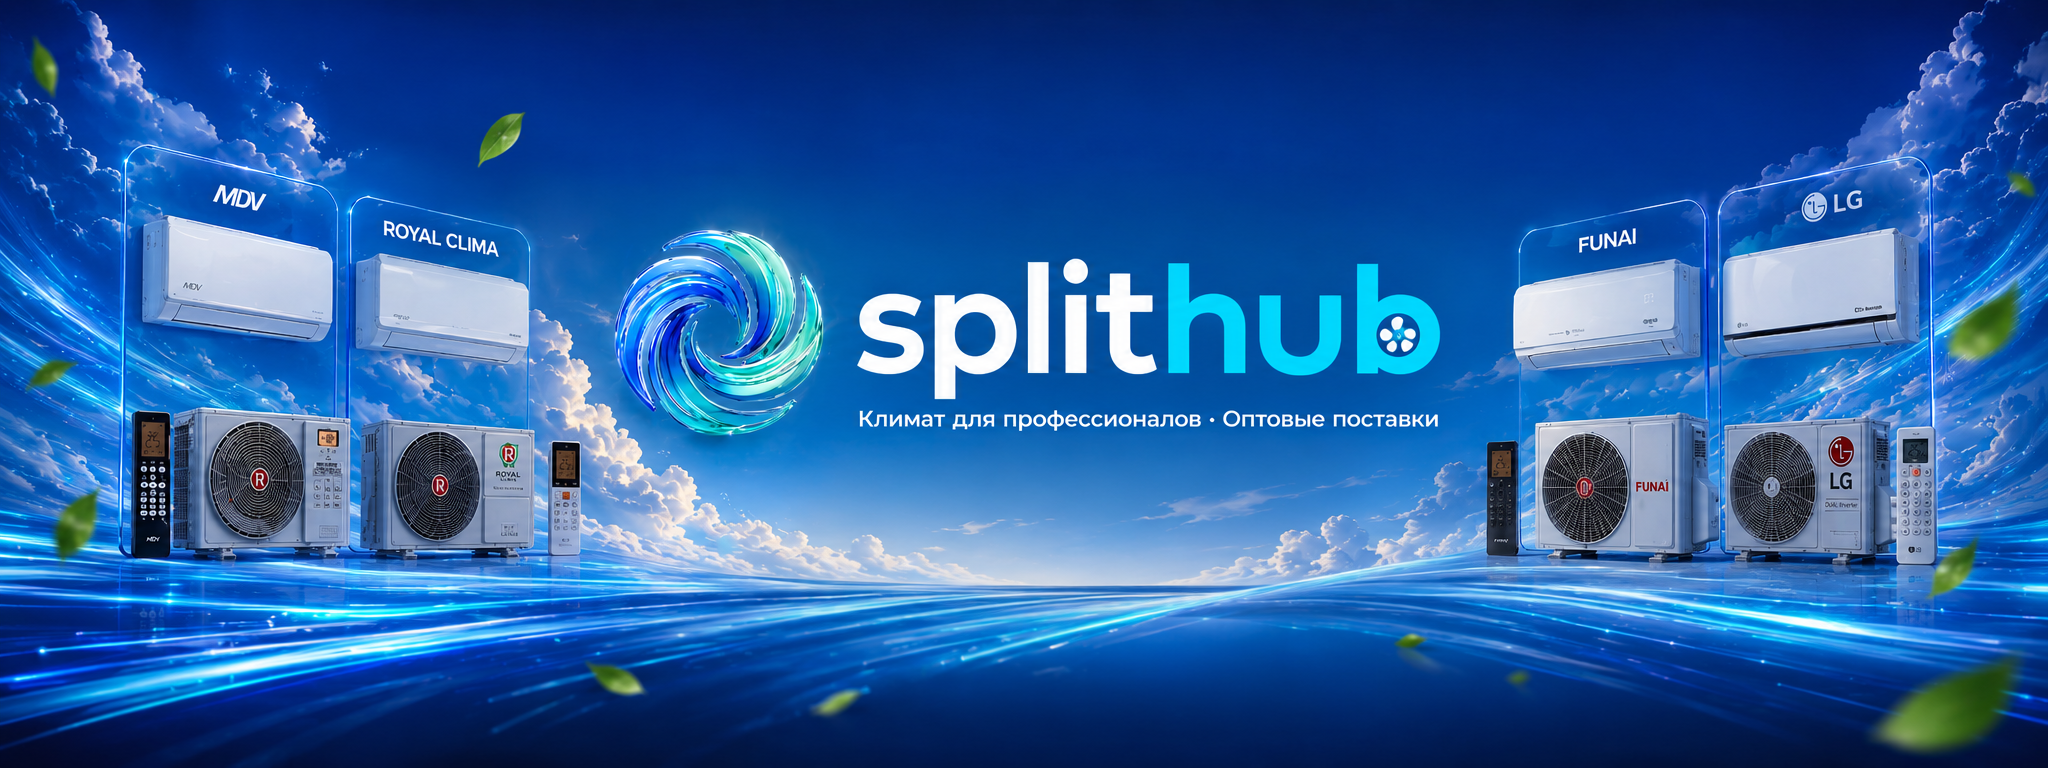
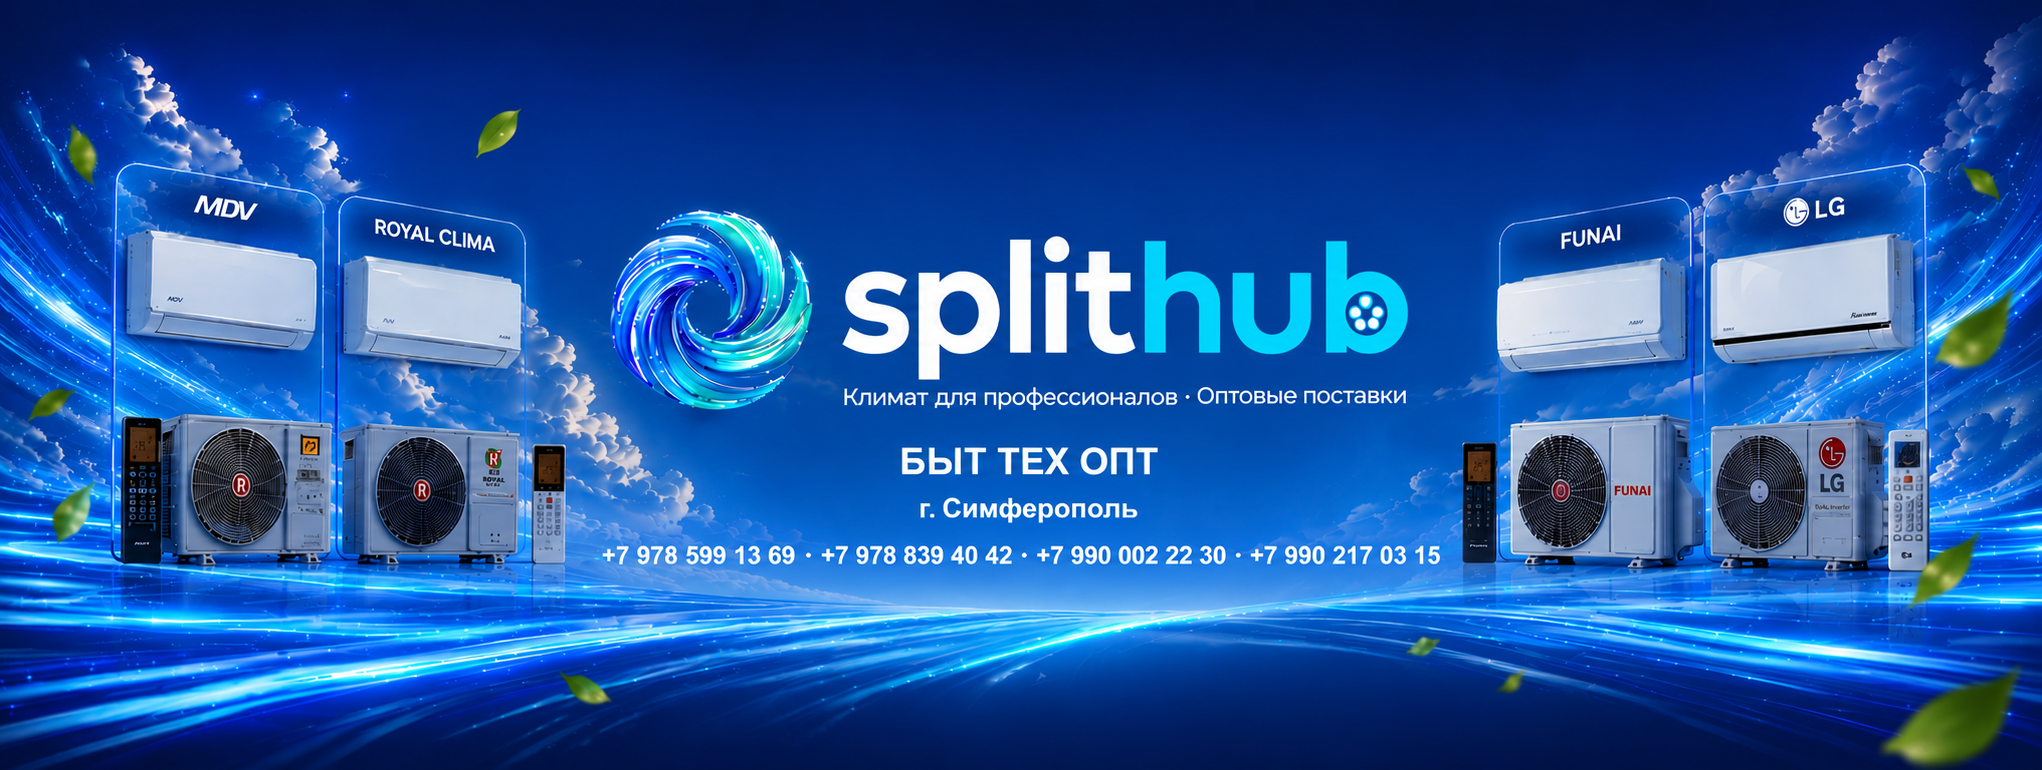
feat: баннер banner7 с вшитыми контактами, шапка без текстовых строк
- banner.png заменён на banner7 (контакты внутри картинки)
- banner_aspect 3.6 — компактная полоса 221pt
- убраны строки названия и телефонов: баннер → заголовки → товары

diff --git a/transform.py b/transform.py
@@ -362,7 +362,6 @@ def apply_pricing(df, group_markups, homeline_prices, default_markup):
 def build_pricelist(df, wb, config, group_order, group_after=None):
     ws = wb.active
     ws.title = 'Прайс клиента'
-    company = config['company']
 
     for letter, w in COL_WIDTHS.items():
         ws.column_dimensions[letter].width = w
@@ -370,32 +369,12 @@ def build_pricelist(df, wb, config, group_order, group_after=None):
     dark_fill = PatternFill('solid', start_color=COLORS['header_bg'])
 
     # ─── Баннер (строка 1, если файл есть) ───
+    # Контакты (название, город, телефоны) вшиты в сам баннер,
+    # поэтому отдельных текстовых строк в шапке нет.
     off = _add_banner(ws, config, dark_fill)
 
-    # ─── Название компании ───
-    ws.merge_cells(start_row=1 + off, start_column=1, end_row=1 + off, end_column=6)
-    c = ws.cell(1 + off, 1)
-    c.value = company['name']
-    c.font = Font(bold=True, size=22, name='Arial', color=COLORS['header_font'])
-    c.fill = dark_fill
-    c.alignment = Alignment(horizontal='center', vertical='center')
-    ws.row_dimensions[1 + off].height = 38.1
-    for col in range(2, 7):
-        ws.cell(1 + off, col).fill = dark_fill
-
-    # ─── Телефоны ───
-    ws.merge_cells(start_row=2 + off, start_column=1, end_row=2 + off, end_column=6)
-    c = ws.cell(2 + off, 1)
-    c.value = company['phones']
-    c.font = Font(bold=True, size=10, name='Arial', color=COLORS['phone_font'])
-    c.fill = dark_fill
-    c.alignment = Alignment(horizontal='center', vertical='center')
-    ws.row_dimensions[2 + off].height = 21.95
-    for col in range(2, 7):
-        ws.cell(2 + off, col).fill = dark_fill
-
     # ─── Заголовки таблицы ───
-    header_row = 3 + off
+    header_row = 1 + off
     headers = ['№', 'Артикул', 'Бренд', 'Наименование', 'Цена (руб.)', 'Заказ (шт.)']
     header_style = {
         'font': Font(bold=True, size=10, name='Arial', color=COLORS['header_font']),
